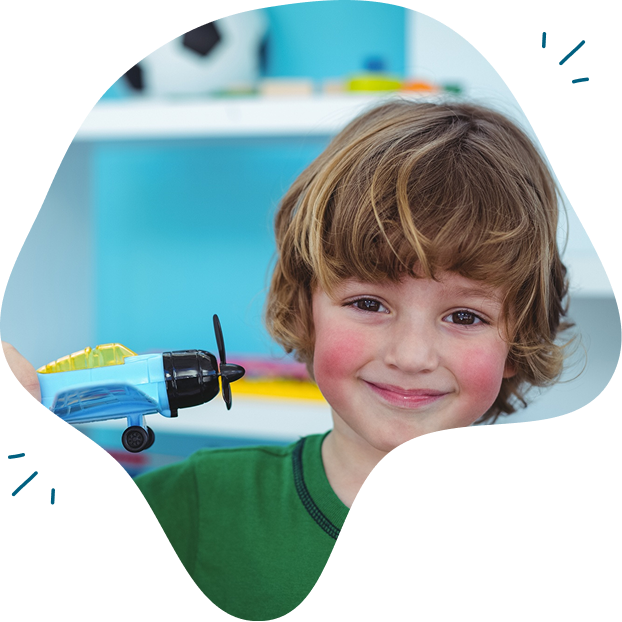
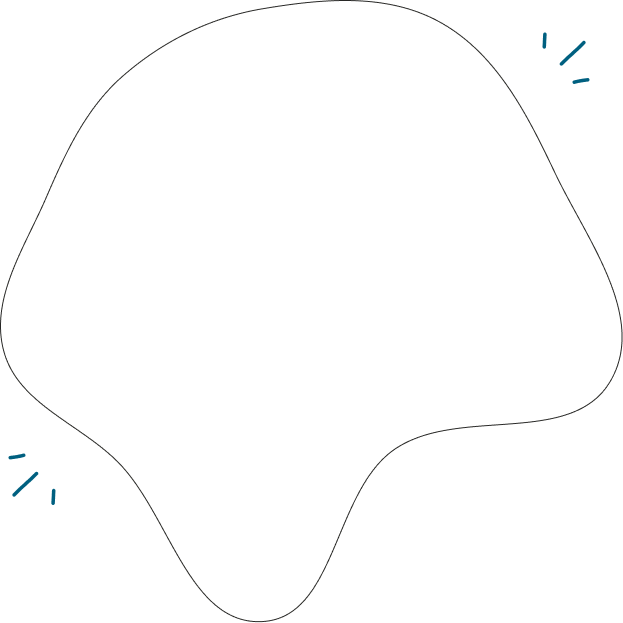
Refactor TextWithBlobImage component to remove image handling
- Simplified TextWithBlobImage by removing imageSrc and imageAlt props, ensuring it only handles title and description.
- Updated TextBlobMedia to use a static image instead of dynamic props, enhancing consistency in rendering.
- Replaced mask asset with new blob assets for improved visual presentation.

diff --git a/src/app/cmsComponents/TextWithBlobImage/components/TextBlobMedia.jsx b/src/app/cmsComponents/TextWithBlobImage/components/TextBlobMedia.jsx
@@ -1,35 +1,31 @@
 import Image from "next/image";
-import maskAsset from "@/assets/mask.png";
-import TextBlobHighlight from "./TextBlobHighlight";
+import blobMask from "@/assets/blob-mask.png";
+import blobTicks from "@/assets/blob-ticks.png";
+import blobImage from "@/assets/Text-With-Blob-Image.png";
 
-const maskUrl = typeof maskAsset === "string" ? maskAsset : maskAsset.src;
+const blobMaskUrl = typeof blobMask === "string" ? blobMask : blobMask.src;
 
-export default function TextBlobMedia({ imageSrc, imageAlt }) {
-  if (!imageSrc) {
-    return null;
-  }
-
+export default function TextBlobMedia() {
   return (
     <div className="relative flex justify-center lg:justify-end">
       <div className="relative h-[260px] w-[260px] sm:h-[320px] sm:w-[320px] md:h-[400px] md:w-[400px] lg:h-[440px] lg:w-[440px]">
+        {/* Real image clipped to the solid blob shape */}
         <div
-          className="relative h-full w-full overflow-hidden"
+          className="absolute inset-0"
           style={{
-            WebkitMaskImage: `url(${maskUrl})`,
-            maskImage: `url(${maskUrl})`,
+            WebkitMaskImage: `url(${blobMaskUrl})`,
+            maskImage: `url(${blobMaskUrl})`,
             WebkitMaskSize: "contain",
             maskSize: "contain",
             WebkitMaskRepeat: "no-repeat",
             maskRepeat: "no-repeat",
             WebkitMaskPosition: "center",
             maskPosition: "center",
-            WebkitMaskMode: "luminance",
-            maskMode: "luminance",
           }}
         >
           <Image
-            src={imageSrc}
-            alt={imageAlt}
+            src={blobImage}
+            alt=""
             fill
             quality={75}
             priority
@@ -38,8 +34,15 @@ export default function TextBlobMedia({ imageSrc, imageAlt }) {
           />
         </div>
 
-        <TextBlobHighlight position="top" />
-        <TextBlobHighlight position="bottom" />
+        {/* Accent dashes (extracted from the blob artwork, no outline) */}
+        <Image
+          src={blobTicks}
+          alt=""
+          fill
+          priority
+          className="pointer-events-none object-contain object-center"
+          sizes="(max-width: 640px) 260px, (max-width: 768px) 320px, (max-width: 1024px) 400px, 440px"
+        />
       </div>
     </div>
   );

diff --git a/src/app/cmsComponents/TextWithBlobImage/index.jsx b/src/app/cmsComponents/TextWithBlobImage/index.jsx
@@ -5,19 +5,16 @@ import TextBlobMedia from "./components/TextBlobMedia";
 import { getTextWithBlobContent } from "./utils/helpers";
 
 const TextWithBlobImage = ({ lang = "en", data }) => {
-  const { title, description, imageSrc, imageAlt } = getTextWithBlobContent(
-    data,
-    lang
-  );
+  const { title, description } = getTextWithBlobContent(data, lang);
 
-  if (!title && !description && !imageSrc) {
+  if (!title && !description) {
     return null;
   }
 
   return (
     <div className="grid grid-cols-1 items-center gap-10 lg:grid-cols-2 lg:gap-16">
       <TextBlobContent title={title} description={description} />
-      <TextBlobMedia imageSrc={imageSrc} imageAlt={imageAlt} />
+      <TextBlobMedia />
     </div>
   );
 };
